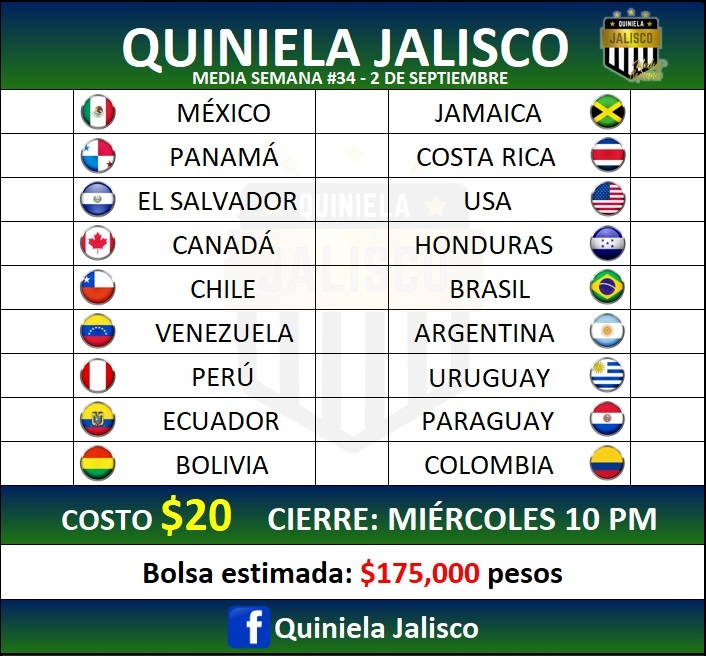
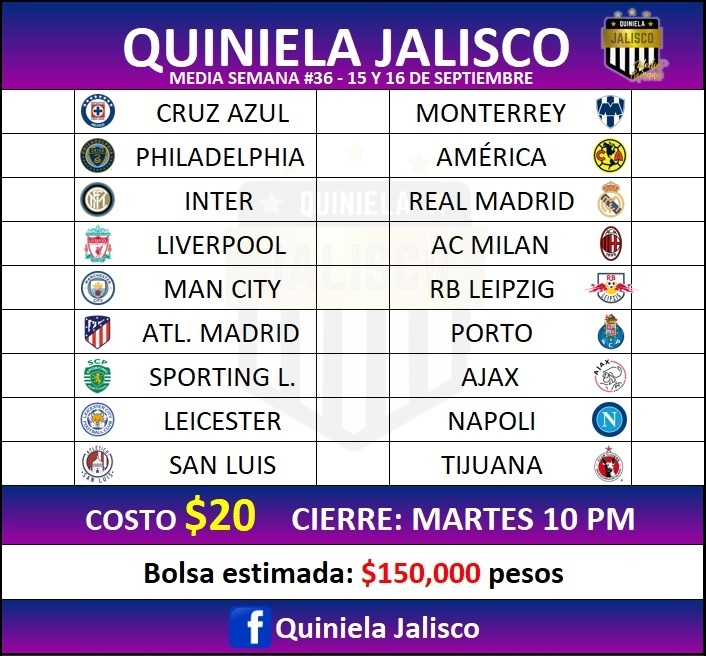
Media Semana #36

diff --git a/media.html b/media.html
@@ -2,23 +2,22 @@
 <html lang="en" translate="no">
 <head>
     <meta charset="UTF-8">
-    <meta name="google" content="notranslate">
     <meta name="viewport" content="width=device-width, initial-scale=1.0, user-scalable=no">
-    <meta name="description" content="¡Registra aquí tus quinielas! - Quiniela Liga MX">
-    <meta name="keywords" content="Quiniela, Liga MX, Apostar, Pronósticos">
-    <title>Quiniela Jalisco</title>
+    <title>Quiniela Jalisco - Media Semana</title>
     <link href="https://fonts.googleapis.com/css2?family=Roboto&display=swap" rel="stylesheet">
-    <link rel="stylesheet" href="10/styles10media.css">
+    <link rel="stylesheet" href="MediaSemana/stylesm.css">
     <link rel="icon" href="MediaSemana/iconm.jpg">
     <link rel="apple-touch-icon" href="MediaSemana/iconm.jpg">
     <link rel="shortcut icon" href="MediaSemana/iconm.jpg" type="image/x-icon">
     <script type="module" src="https://unpkg.com/ionicons@5.1.2/dist/ionicons/ionicons.esm.js"></script>
     <script nomodule="" src="https://unpkg.com/ionicons@5.1.2/dist/ionicons/ionicons.js"></script>
-    <script src="10/main10media.js"></script>
+    <script src="MediaSemana/mainm.js"></script>
 </head>
 
 <body>
-    <p id='bolsa'>¡Se reparte todo el acumulado!<br> Bolsa estimada: <span style="color:yellow">$200,000</span> pesos</p>
+    <br>
+    <br>
+    <!--<p style='color:white;text-align:center'>Bolsa estimada: <span style="color:yellow">+$200,000 pesos</span></p>-->
     <div class="quiniela" id="quiniela">
         <div class="aux"><h3 style="padding: 5px 7px" onclick="clean()"><ion-icon name="close-outline"></ion-icon></h3></div>
         <div class="partido">
@@ -84,13 +83,6 @@
             <div id="_"></div>
             <span id="V9" onclick="selection(this)"></span>
         </div>
-	<div class="partido">
-            <span id="L10" onclick="selection(this)"></span>
-            <div id="_"></div>
-            <span id="E10" onclick="selection(this)"></span>
-            <div id="_"></div>
-            <span id="V10" onclick="selection(this)"></span>
-        </div>
         <h1 id="text"></h1>
     </div>
     <table class="botonera">
@@ -126,7 +118,7 @@
                 <td style="width: 23%"></td>
             </tr>
         </table>
-        <!--<script src="https://unpkg.com/ionicons@5.1.2/dist/ionicons.js"></script>-->
+        <script src="https://unpkg.com/ionicons@5.1.2/dist/ionicons.js"></script>
 
         <br><br>
 
@@ -138,8 +130,8 @@
     </div>
     <br>
     <!--<p id="display"></p>-->
-    <div id="divaux" translate="no">
-        <table id="display">
+    <div id="divaux">
+        <table id="display" translate="no">
         </table>
     </div>
     <!--<button id="undo" onclick="remove()"><ion-icon name="arrow-undo-outline"></ion-icon></button>-->

diff --git a/MediaSemana/stylesm.css b/MediaSemana/stylesm.css
@@ -89,8 +89,8 @@ h1{
     margin-top: 8%;
     border: solid 1px black;
     border-radius: 0 0 14px 14px;
-    background: -webkit-linear-gradient(0.5turn, rgb(31,115,21)  ,rgb(2,40,89) 80%);
-    background: linear-gradient(0.5turn, rgb(31,115,21)  ,rgb(2,40,89) 80%);
+    background: -webkit-linear-gradient(0.5turn, rgb(150,5,158)  ,rgb(9,38,130) 80%);
+    background: linear-gradient(0.5turn, rgb(150,5,158)  ,rgb(9,38,130) 80%);
     font-size: x-large;
     text-shadow: 3px 3px 3px black;
 }
